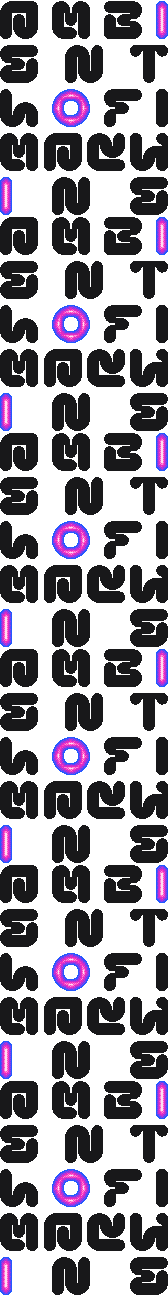
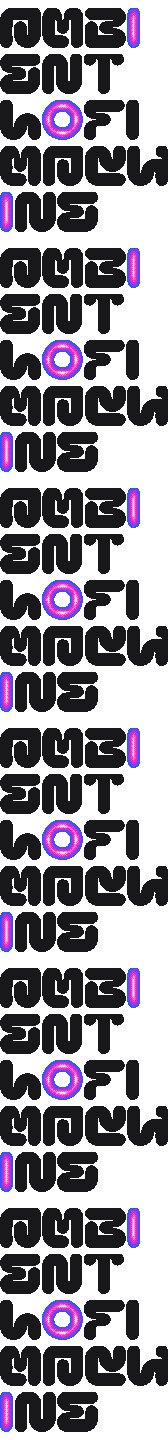
The site on a phone: Install and Manual as the index's ruled rows; the footer's words at Kiloy's own spacing, split over lines
The owner: no buttons for them; the stacked words with Kiloy's spacing
kept, not spread to the edges. Under 800 px the header is Play it and
Ko-fi, then the index's two rows (the name, what it is in the actions'
column, the page you are on lit); the band is band_stack(): ambi / ent /
lofi / mach / ine at one size, each line from the left. Audited at 1280,
900 and 375.

diff --git a/web/style.css b/web/style.css
@@ -95,8 +95,6 @@ kbd {
 .nav span { color: var(--label); }
 .n1 { grid-column: 3 / span 2; } .n2 { grid-column: 6 / span 2; } .n3 { grid-column: 9 / span 2; } .n4 { grid-column: 12 / span 2; }
 .kofi { grid-column: 21 / span 4; grid-row: 2; }
-.head .mi, .head .mm { display: none; }          /* (a phone's: the index's two as buttons, under Play it) */
-.pill[aria-current] { box-shadow: inset 0 0 0 1px var(--ink); }   /* the page you are on: its line doubled */
 .cta { grid-column: 21 / span 4; grid-row: 1; }
 .pill, .lit {
   width: calc(100% + 1px); height: calc(var(--m) + 1px); display: flex; align-items: center; justify-content: center;
@@ -414,13 +412,15 @@ code { font: inherit; color: var(--ink); }
 /* ---- 7 modules (a phone) */
 @media (max-width: 799px) {
   :root { --cols: 7; --ph: 192px; --l: 32px; --xl: 96px; }
-  .nav { display: none; }
-  .head { grid-template-rows: repeat(5, var(--m)); }   /* Play it, Install, Manual, Ko-fi, then air (the owner: the
-                                                           installer and the manual in reach, as buttons) */
+  /* the index (the owner: the installer and the manual in reach): Install and Manual as the page's ruled rows, the
+   * name, then what it is in the actions' column; Play is the action, the source is in the footer */
+  .head { grid-template-rows: repeat(6, var(--m)); }   /* Play it, Ko-fi, air, the index's two rows, air */
+  .n1, .n4 { display: none; }
+  .nav { grid-column: 1 / -1; flex-direction: row; box-shadow: inset 0 1px 0 var(--ink); }
+  .nav b { width: calc(3 * var(--m)); }
+  .n3 { grid-row: 4; } .n2 { grid-row: 5; box-shadow: inset 0 1px 0 var(--line); }
   .cta { grid-column: -5 / -1; }
-  .head .mi { display: flex; grid-column: -5 / -1; grid-row: 2; }
-  .head .mm { display: flex; grid-column: -5 / -1; grid-row: 3; }
-  .kofi { grid-column: -5 / -1; grid-row: 4; }
+  .kofi { grid-column: -5 / -1; grid-row: 2; }
   /* the wordmark stacked, after Kiloy's specimen: "dem" over "ake", edge to edge */
   .mark { grid-column: 1 / -1; grid-row: 1 / span 5; aspect-ratio: 7 / 5; background-image: url("img/wordmark_stack.png"); }
   .hero { grid-template-rows: repeat(11, var(--m)); }
@@ -466,9 +466,10 @@ code { font: inherit; color: var(--ink); }
   .legend { grid-column: 1 / -1; grid-row: 10 / span 10; }
   .legend li { grid-auto-rows: auto; }
   .index { grid-column: 1 / -1; grid-row: 10 / span 13; grid-template-columns: 1fr; }
-  .bandrow { grid-template-rows: repeat(11, var(--m)); }
-  .band { grid-row: 2 / span 9; aspect-ratio: 168 / 216; background-image: url("img/band_stack.png"); }   /* stacked, a word
-                                                           in two or one, as big as the width (the owner: like the hero's) */
+  .bandrow { grid-template-rows: repeat(12, var(--m)); }
+  .band { grid-row: 2 / span 10; aspect-ratio: 168 / 240; background-image: url("img/band_stack.png?v=2"); }   /* stacked, a
+                                                           word in two or one at Kiloy's own spacing, as big as the width
+                                                           (the owner: like the hero's) */
   .links { grid-template-rows: repeat(6, var(--m)); }
   .links > * { grid-column: 1 / -1; }
   .fin { grid-template-rows: repeat(7, var(--m)); }

diff --git a/web/index.html b/web/index.html
@@ -7,7 +7,7 @@
   <title>Demake</title>
   <meta name="description" content="Demake: an ambient lofi machine for the M-VAVE FM-1. Three synths on its own recordings, scenes and songs, a chord machine, tape, codec and rooms.">
   <link rel="icon" href="img/icon.png">
-  <link rel="stylesheet" href="style.css?v=22">
+  <link rel="stylesheet" href="style.css?v=25">
   <script>
     /* the splash, once a visit and never for less motion; if anything fails, the page shows after 4 s regardless */
     try {
@@ -32,8 +32,6 @@
     <a href="install.html" class="nav n3"><b>Install</b><span>Over USB</span></a>
     <a href="https://github.com/InigoHernandez/demake-synth" class="nav n4"><b>Source</b><span>GitHub</span></a>
     <a href="https://ko-fi.com/sequencist" class="kofi pill" target="_blank" rel="noopener">Support on Ko&#8209;fi</a>
-    <a href="install.html" class="mi pill">Install</a>
-    <a href="manual.html" class="mm pill">Manual</a>
     <a href="#play" class="cta lit">Play it</a>
   </header>
 

diff --git a/web/manual.html b/web/manual.html
@@ -10,7 +10,7 @@
   <title>Demake manual</title>
   <meta name="description" content="How to play Demake on the M-VAVE FM-1 and in the emulator: the panel, the pages, the rolls, chords and effects.">
   <link rel="icon" href="img/icon.png">
-  <link rel="stylesheet" href="style.css?v=22">
+  <link rel="stylesheet" href="style.css?v=25">
 </head>
 <body class="noscript-all">
 <main class="canvas">
@@ -22,8 +22,6 @@
     <a href="install.html" class="nav n3"><b>Install</b><span>Over USB</span></a>
     <a href="https://github.com/InigoHernandez/demake-synth" class="nav n4"><b>Source</b><span>GitHub</span></a>
     <a href="https://ko-fi.com/sequencist" class="kofi pill" target="_blank" rel="noopener">Support on Ko&#8209;fi</a>
-    <a href="install.html" class="mi pill">Install</a>
-    <a href="manual.html" class="mm pill" aria-current="page">Manual</a>
     <a href="./#play" class="cta lit">Play it</a>
   </header>
 

diff --git a/web/install.html b/web/install.html
@@ -12,7 +12,7 @@
   <title>Demake installer</title>
   <meta name="description" content="Install Demake on the M-VAVE FM-1 over USB, from the browser, and go back to the official firmware.">
   <link rel="icon" href="img/icon.png">
-  <link rel="stylesheet" href="style.css?v=22">
+  <link rel="stylesheet" href="style.css?v=25">
 </head>
 <body>
 <main class="canvas">
@@ -24,8 +24,6 @@
     <a href="install.html" class="nav n3" aria-current="page"><b>Install</b><span>Over USB</span></a>
     <a href="https://github.com/InigoHernandez/demake-synth" class="nav n4"><b>Source</b><span>GitHub</span></a>
     <a href="https://ko-fi.com/sequencist" class="kofi pill" target="_blank" rel="noopener">Support on Ko&#8209;fi</a>
-    <a href="install.html" class="mi pill" aria-current="page">Install</a>
-    <a href="manual.html" class="mm pill">Manual</a>
     <a href="./#play" class="cta lit">Play it</a>
   </header>
 

diff --git a/tools/gen_art.py b/tools/gen_art.py
@@ -239,8 +239,7 @@ def marks():
     sprite(lit_frames(glyph_mask("demake", 92, 384, 96, span=True)), IMG / "wordmark.png")
     stack()
     stack(("ambi", "ent"), "plate_stack.png", plate=True)
-    stack(("ambi", "ent", "lofi", "mach", "ine"), "band_stack.png", lit=(3, 8, 15))   # the band for a phone (the owner:
-                                                                                  # as big as the word), its letters lit
+    band_stack()
     sprite(lit_frames(glyph_mask("d", 44, 48, 48, fit=True)), IMG / "iso.png")
     Image.fromarray(lit_frames(glyph_mask("d", 58, 64, 64, fit=True))[0], "RGBA").save(IMG / "icon.png", optimize=True)
     print("web/img/wordmark.png, iso.png (six frames each), icon.png")
@@ -308,6 +307,33 @@ def stack(words=("dem", "ake"), path="wordmark_stack.png", plate=False, lit=None
             frames.append(out)
     sprite(frames, IMG / path)
     print(f"web/img/{path}: {W} x {H} cells ({H // 24} modules), rows {rh} tall, six frames")
+
+
+def band_stack():
+    """the band for a phone (the owner: as big as the word; Kiloy's spacing kept, split over lines): a line a row, all
+    of one size (the widest line's ink from edge to edge), each at its own spacing from the left, one letter lit as
+    the band has them; whole modules tall"""
+    rows = [("ambi", 3), ("ent", -1), ("lofi", 1), ("mach", -1), ("ine", 0)]
+    W, lead = 168, 6
+    f4 = ImageFont.truetype(str(KILOY), 800)
+    nat = [f4.getbbox(w) for w, _ in rows]
+    k = W / max(b[2] - b[0] for b in nat)
+    rh = max(round((b[3] - b[1]) * k) for b in nat)
+    H = (len(rows) * rh + lead * (len(rows) - 1) + 23) // 24 * 24
+    masks = [letters(w, 200, round((b[2] - b[0]) * k), rh) for (w, _), b in zip(rows, nat)]
+    frames = []
+    for fk in range(6):
+        out = np.zeros((H, W, 4), np.uint8)
+        y = (H - (len(rows) * rh + lead * (len(rows) - 1))) // 2
+        for ms, (word, hot) in zip(masks, rows):
+            for i, m in enumerate(ms):
+                sl = out[y:y + rh, :m.shape[1]]
+                sl[m, :3] = lit_rgb(m, fk)[m] if i == hot else INK
+                sl[m, 3] = 255
+            y += rh + lead
+        frames.append(out)
+    sprite(frames, IMG / "band_stack.png")
+    print(f"web/img/band_stack.png: {W} x {H} cells ({H // 24} modules), rows {rh} tall, six frames")
 
 
 def graphics():
